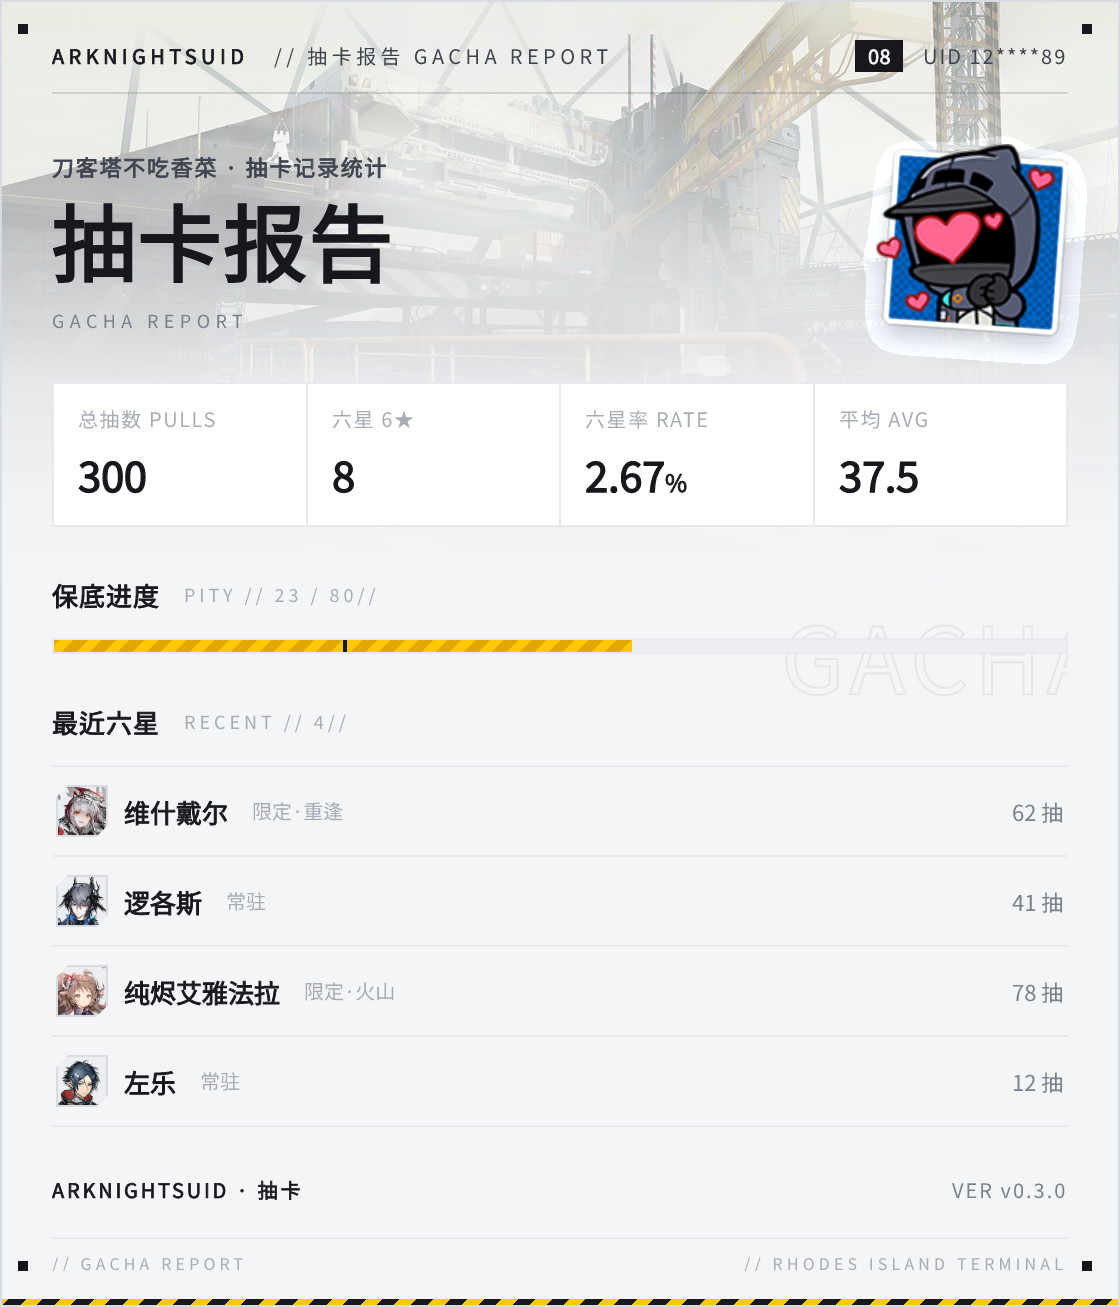
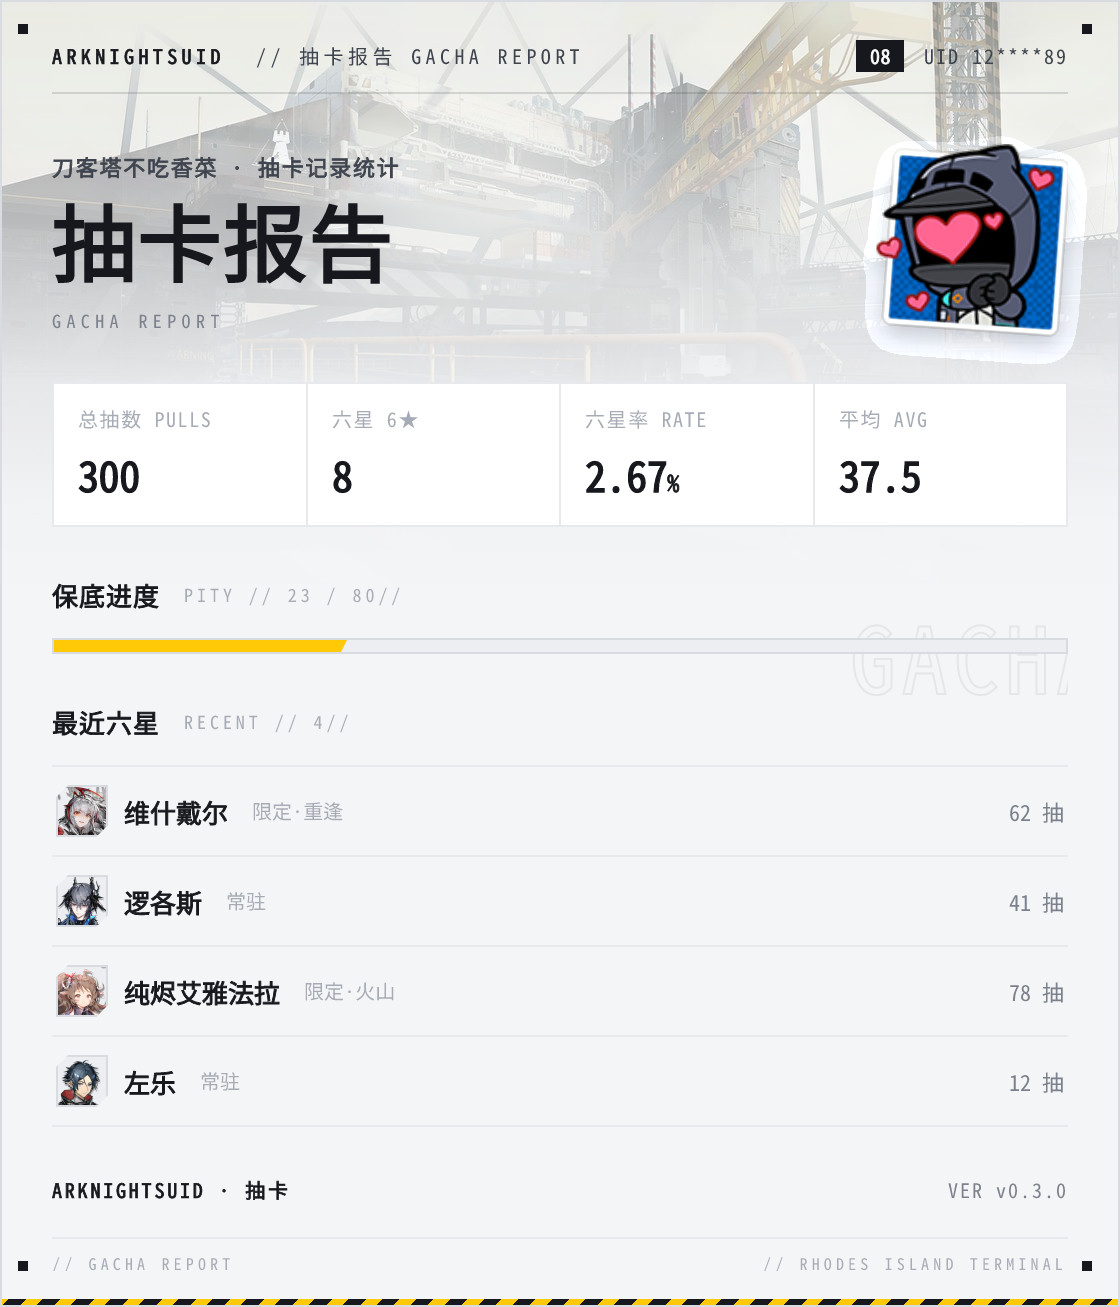
💄 进度条重设计：浅灰细框轨道 + 信号黄斜切填充（去斜纹噪点/黑端帽/黑轨道）+ 预览重渲染 ×13
- .bar 全组件换极简量规语言：panel-2 轨道 + 1px 发丝框 + 实心黄填充 +
  clip-path 斜切刃口；bar--lg 内嵌读数改纯墨色等宽字（去白底牌）
- 双引擎约束写入注释：takumi 不画伪元素背景（勿用 ::after 叠刻度）；
  边框拼角在 0% 填充漏残片（勿替代 clip-path）
- 影响 13 张卡：理智/日常/剿灭/基建/训练/抽卡报告/掉率/刷图榜等

diff --git a/ArknightsUID/templates/ark_base.css b/ArknightsUID/templates/ark_base.css
@@ -450,52 +450,48 @@ body {
 
 .bignum .red { color: var(--yellow-deep); }
 
-/* === 进度条：浅灰轨道 + 信号黄斜纹填充 + 黑端帽 + 刻度线（寻访语言）=== */
+/* === 进度条：浅灰细框轨道 + 信号黄填充 + 斜切刃口（极简量规语言）===
+   渲染约束（takumi/Chromium 双引擎一致）：
+   · 勿在 .bar 上放 ::before/::after 装饰——takumi 不画伪元素背景；
+     同理填充刃口用 clip-path 而非伪元素（.bar 无伪元素时 clip-path 安全）
+   · 勿用边框拼角代替 clip-path——0% 填充时会在左端漏出残片 */
 .bar {
     position: relative;
     height: 8px;
     background: var(--panel-2);
-    border: 1px solid var(--hairline);
+    border: 1px solid var(--line);
     overflow: hidden;
 }
 
 .bar > i {
     display: block;
     height: 100%;
-    background: repeating-linear-gradient(
-        -45deg, var(--yellow) 0 5px, var(--yellow-deep) 5px 10px
-    );
-    border-right: 2px solid var(--ink-block);
+    background: var(--yellow);
+    /* 端部斜切：与面板切角同一母题，读数尽头是刃口 */
+    clip-path: polygon(0 0, 100% 0, calc(100% - 3px) 100%, 0 100%);
 }
 
-/* 刻度线：每 10% 一道（任务界面进度条的刻度语言）*/
-.bar::after {
-    content: "";
-    position: absolute;
-    inset: 0;
-    background: repeating-linear-gradient(90deg,
-        transparent 0 calc(10% - 1px),
-        rgba(22, 24, 29, 0.14) calc(10% - 1px) 10%);
-    pointer-events: none;
-}
-
-/* 加高变体：数字内嵌（理智条/剿灭条的大读数语言）*/
+/* 加高变体：读数内嵌（理智条/剿灭条/训练条的大读数语言）*/
 .bar--lg { height: 18px; }
 
-.bar--lg > i { border-right-width: 3px; }
+.bar--lg > i {
+    clip-path: polygon(0 0, 100% 0, calc(100% - 8px) 100%, 0 100%);
+}
 
+/* 内嵌读数：墨色等宽浮于条上，黄段与浅轨道上都清晰 */
 .bar-txt {
     position: absolute;
-    inset: 0;
+    left: 50%;
+    top: 50%;
+    transform: translate(-50%, -50%);
     z-index: 2;
-    display: flex;
-    align-items: center;
-    justify-content: center;
     font-family: var(--mono);
     font-size: 10px;
     font-weight: 700;
     letter-spacing: 0.05em;
+    line-height: 1.5;
     color: var(--tx-0);
+    white-space: nowrap;
 }
 
 .bar-row {
